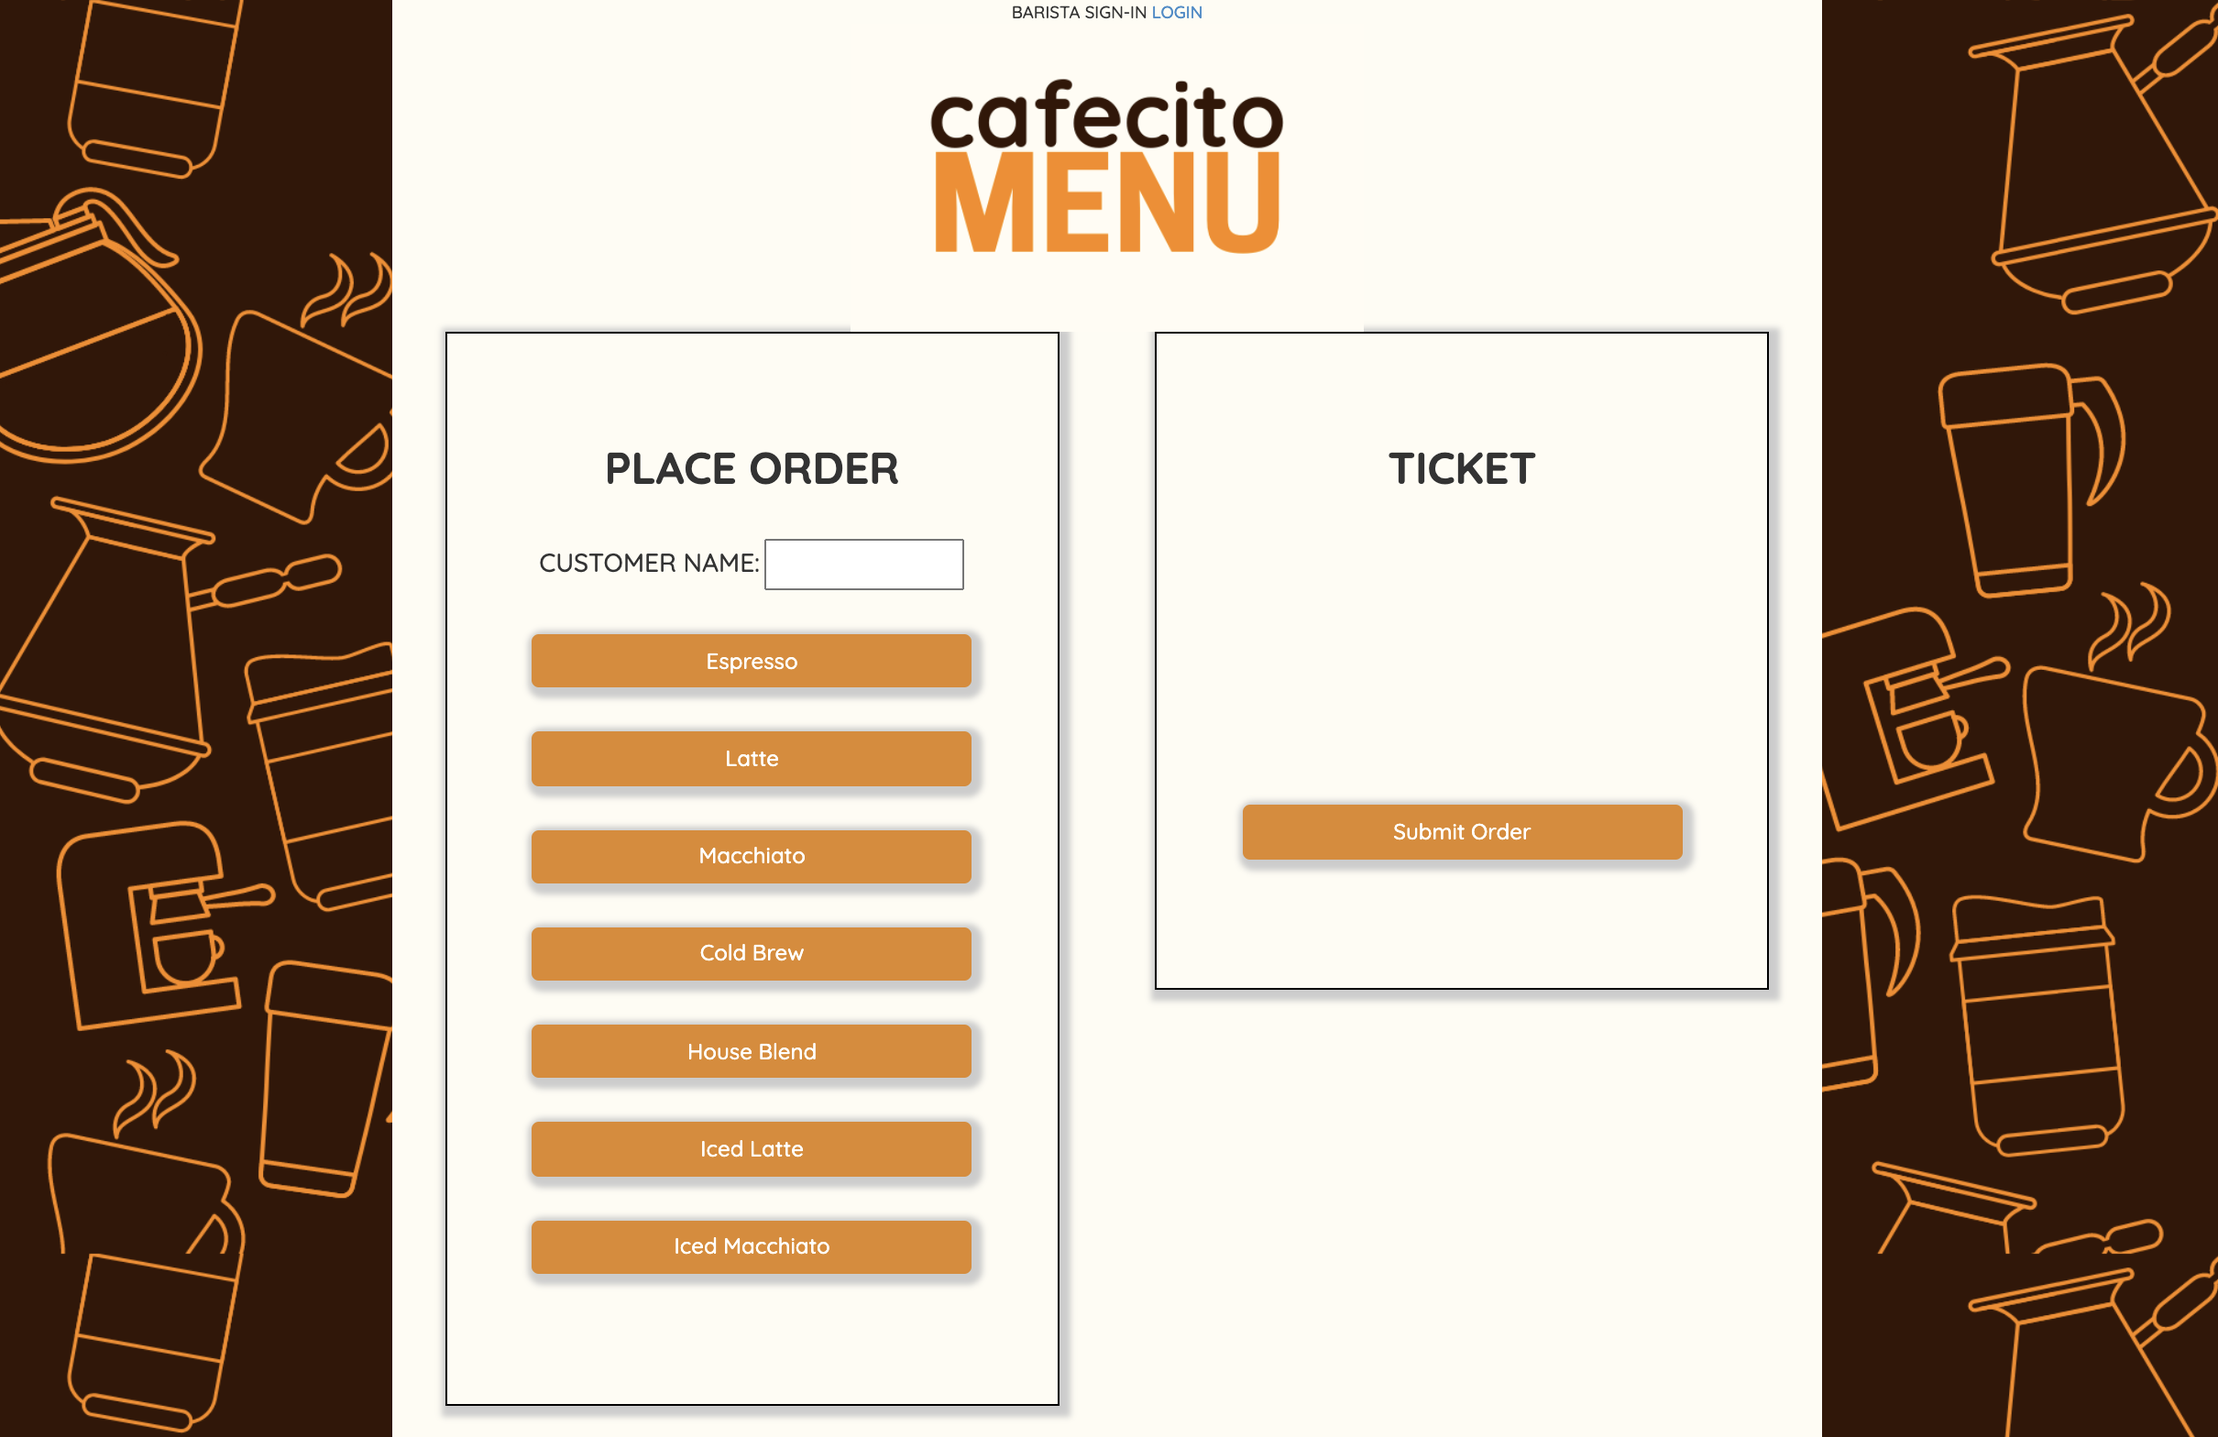
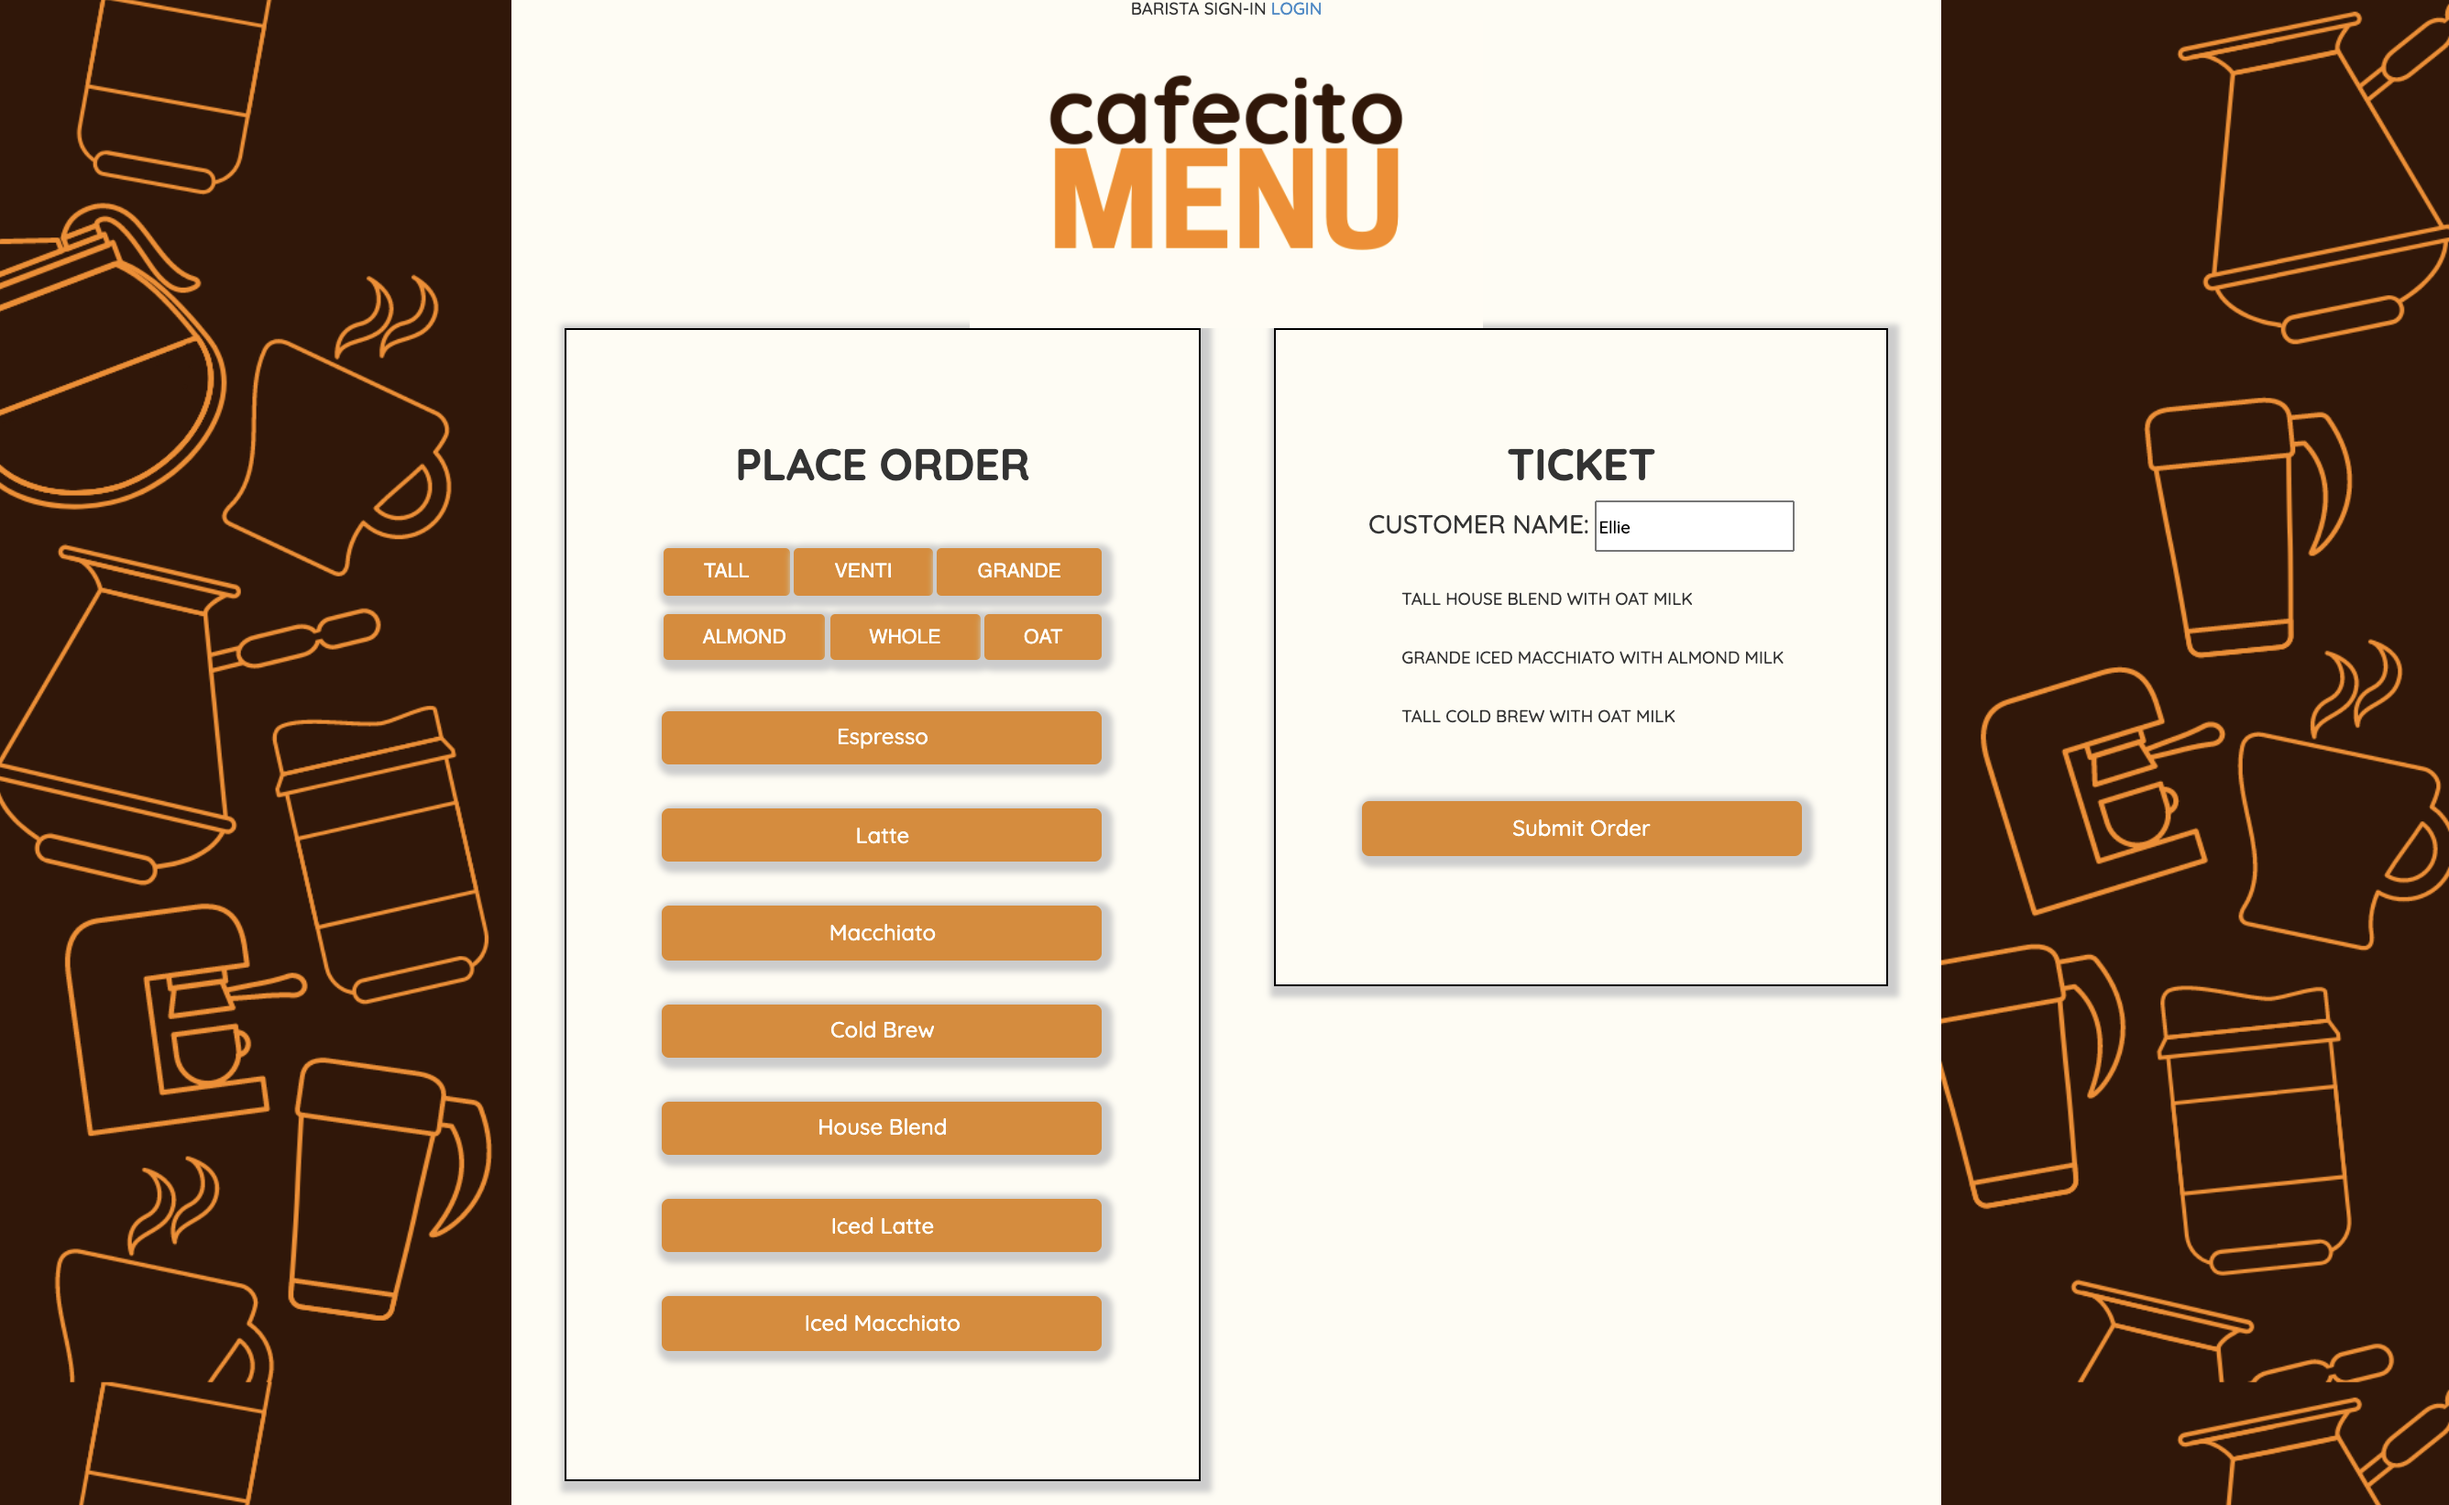
new features/css

diff --git a/public/index.css b/public/index.css
@@ -93,10 +93,10 @@ body{
   
   .btn-primary, .btn-primary:hover, .btn-primary:active, .btn-primary:visited {
     display: block;
-    align-items: center !important;
+    align-items: center;
     background-color: rgb(223 137 37) !important;
     border: none !important;
-    width: 20em !important;
+    width: 20em;
     margin: auto;
     margin-top: 2em;
     margin-bottom: 2em;
@@ -136,3 +136,69 @@ body{
       -webkit-box-shadow: 3px 3px 5px 6px #ccc;
           box-shadow:3px 3px 5px 6px #ccc;
   }
+#sizes {
+    margin: 10px;
+    align-items: left;
+  }
+  
+#sizes input[type="radio"] {
+    opacity: 0;
+    position: fixed;
+    width: 0;
+  }
+  
+#sizes label {
+      color: white;
+      display: inline-block;
+      background-color:rgb(223 137 37);
+      padding: 8px 33px;
+      font-family: sans-serif, Arial;
+      font-size: 16px;
+      border-radius: 4px;
+  }
+  
+#sizes label:hover {
+    background-color: rgb(49 28 15);
+  }
+  
+/* #sizes input[type="radio"]:focus + label {
+      border: 2px dashed #444;
+  } */
+  
+#sizes input[type="radio"]:checked + label {
+      background-color: rgb(223 137 37);
+  }
+
+  #milk {
+    margin: 10px;
+  }
+  
+#milk input[type="radio"] {
+    opacity: 0;
+    position: fixed;
+    width: 0;
+  }
+  
+#milk label {
+      color: white;
+      display: inline-block;
+      background-color:rgb(223 137 37);
+      padding: 8px 32px;
+      font-family: sans-serif, Arial;
+      font-size: 16px;
+      border-radius: 4px;
+  }
+  
+#milk label:hover {
+    background-color: rgb(49 28 15);
+  }
+  
+/* #milk input[type="radio"]:focus + label {
+      border: 2px dashed #444;
+  } */
+  
+#milk input[type="radio"]:checked + label {
+      background-color: rgb(223 137 37);
+  }
+  
+  

diff --git a/public/main.js b/public/main.js
@@ -15,7 +15,7 @@ function submitOrder(event){
     let orderArr = []
 
     for(let i = 0; i < order.length; i++){
-        orderArr[i] = order[i].innerHTML
+        orderArr[i] = order[i].innerText
     }
       console.log("sending name to the server", nameInput.value)
     fetch('/', {
@@ -35,11 +35,42 @@ function submitOrder(event){
 Array.from(orderButtons).forEach(function(orderButton) {
   orderButton.addEventListener('click', function(){
     
+    let sizes = document.querySelectorAll('input[name="size"]')
+    let milkChoices = document.querySelectorAll('input[name="milk')
+    
+    let selectedValue;
+    for (const size of sizes) {
+        if (size.checked) {
+            selectedValue = size.value;
+        }
+    }
+
+    let milkValue;
+    for (const milk of milkChoices) {
+        if (milk.checked) {
+            milkValue = milk.value;
+        }
+    }
+
+
     let li = document.createElement('li')
-    li.innerHTML = orderButton.value
+    li.innerText = `${selectedValue} ${orderButton.value} with ${milkValue} Milk`
     li.classList.add("orderItem")
     document.getElementById("orderTicket").appendChild(li)
+
 
     });
 })
 
+// Array.from(sizeButtons).forEach(function(sizeButton) {
+//   sizeButton.addEventListener('click', function(){
+   
+// let span = document.createElement('span')
+// span.innerHTML = ` Size: ${sizeButton.value} `
+// span.classList.add("size")
+// document.querySelector('li').appendChild(span)
+//     });
+// })
+
+
+  

diff --git a/public/style.css b/public/style.css
@@ -119,3 +119,4 @@ ul{
     -webkit-box-shadow: 3px 3px 5px 6px #ccc;
         box-shadow:3px 3px 5px 6px #ccc;
 }
+
